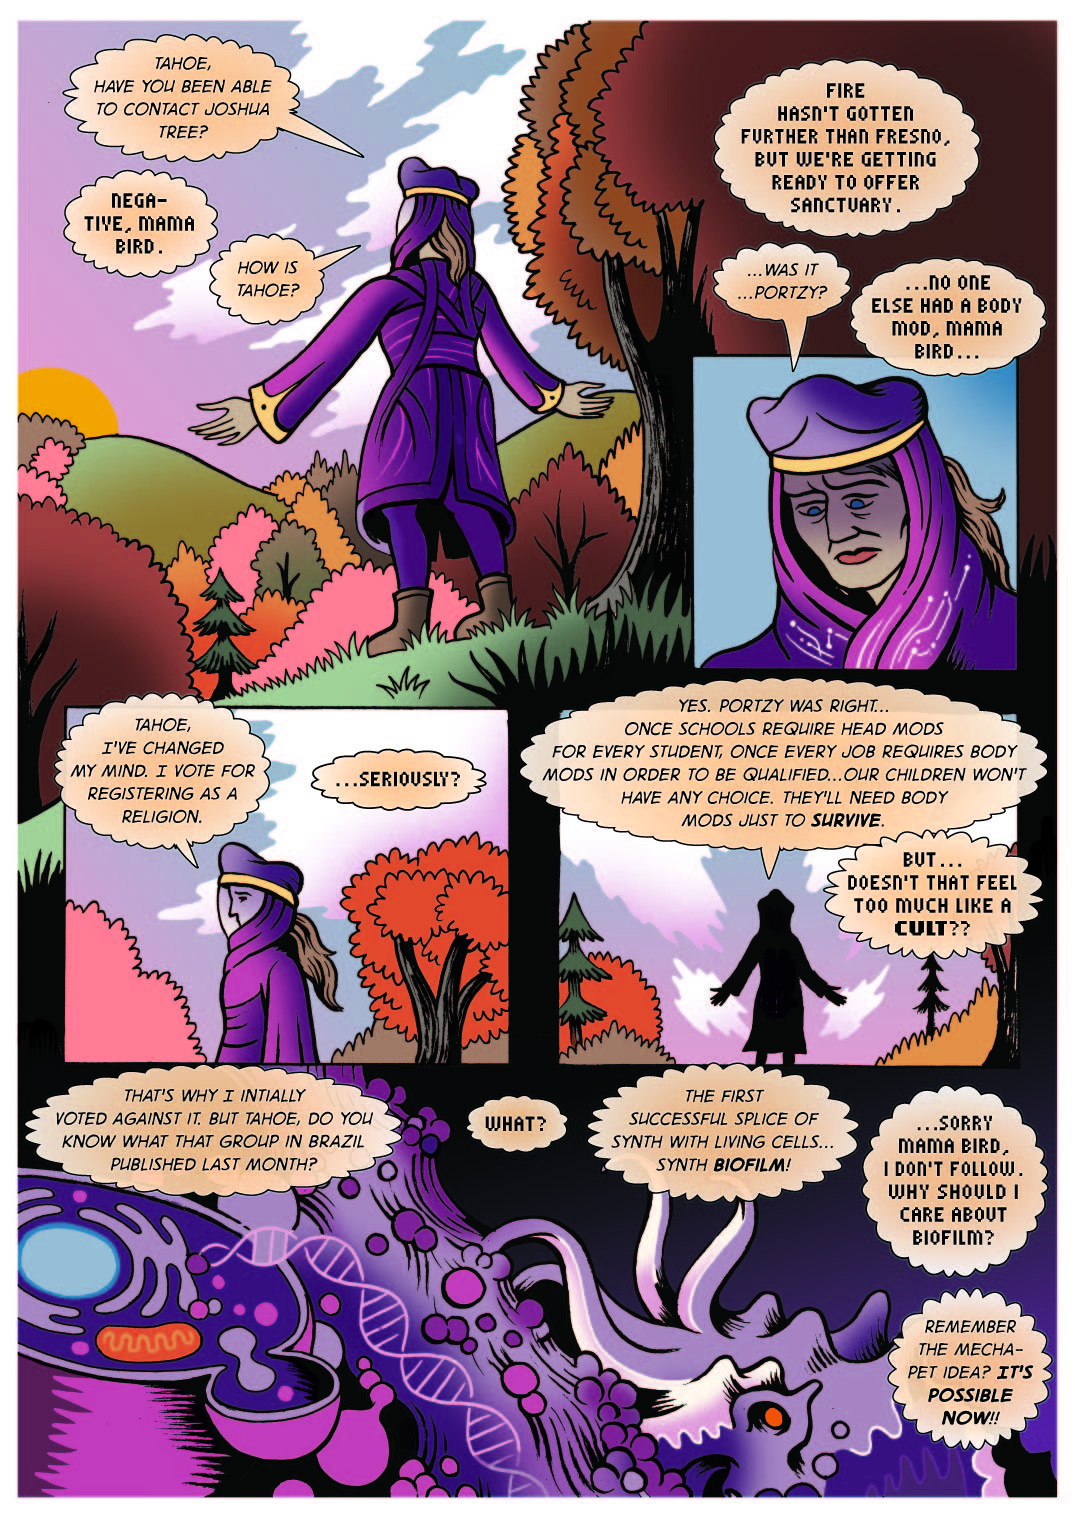
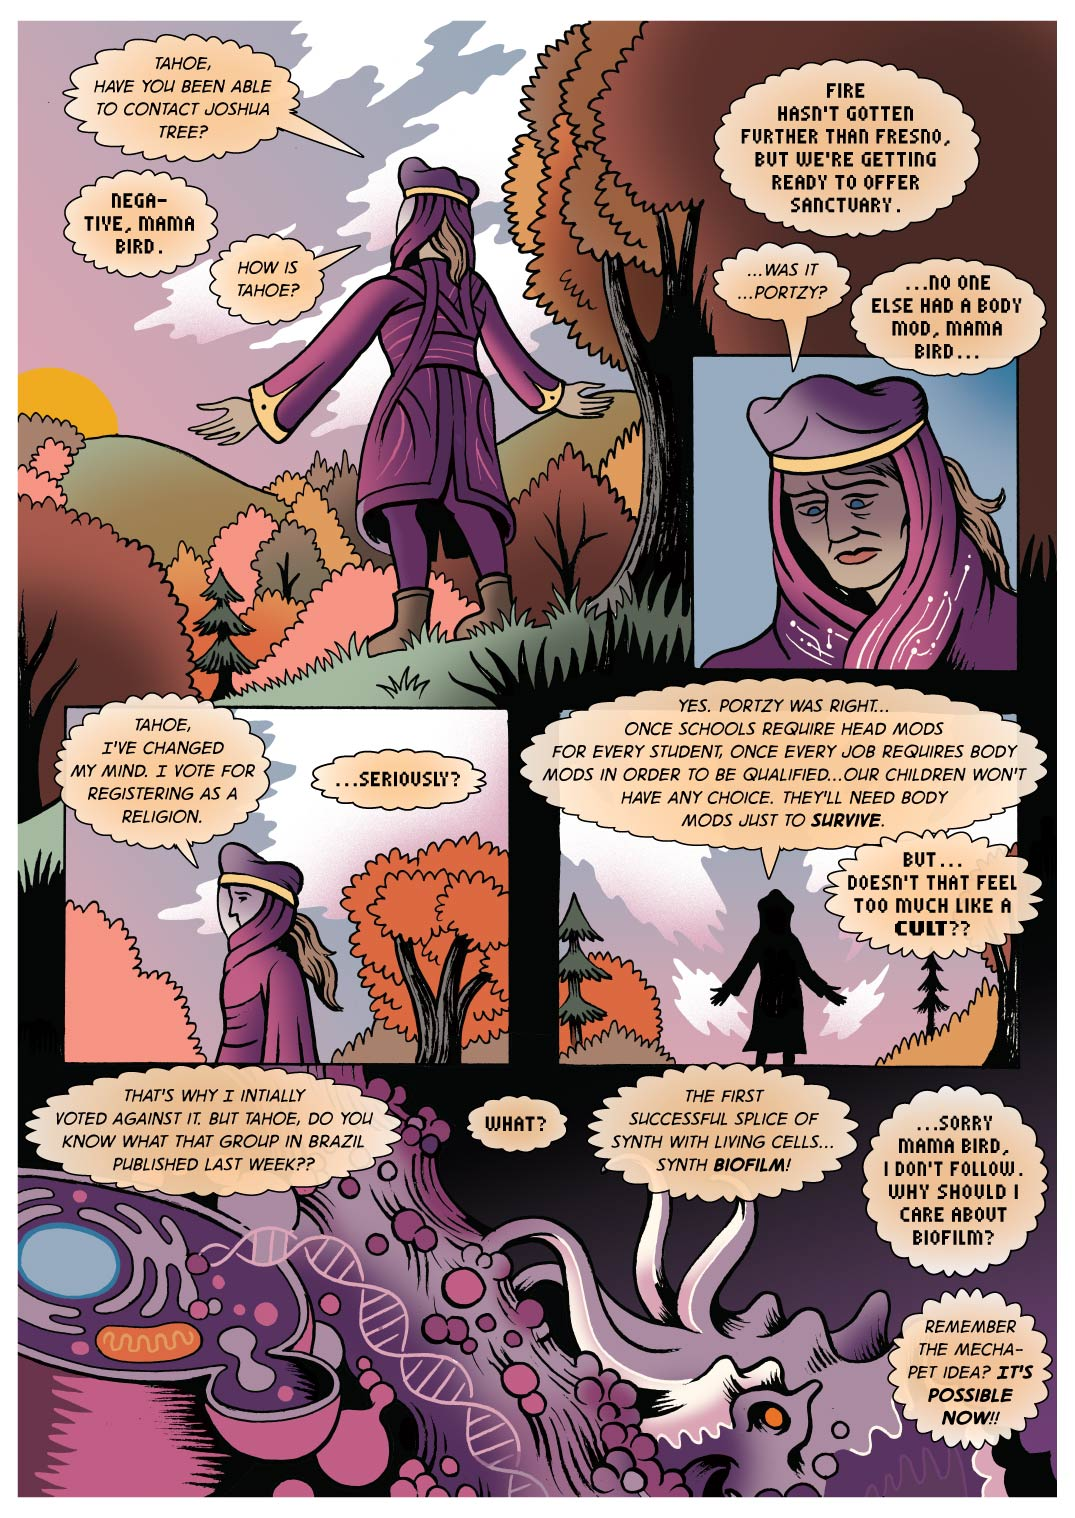
dialogue tweak, page 12

diff --git a/_open-lab-notebook/09-the-first-VIRS-ch01-teaser-14.md b/_open-lab-notebook/09-the-first-VIRS-ch01-teaser-14.md
@@ -46,7 +46,7 @@ Iúna: **"*Yes. Portzy was right - once schools require head mods for every stud
 
 Tahoe: **"*But...doesn't that feel too much like a* cult??"**
 
-Iúna: **"*That's why I intially voted against it. But Tahoe, do you know what that group in Brazil published last month?*"**
+Iúna: **"*That's why I intially voted against it. But Tahoe, do you know what that group in Brazil published last week??*"**
 
 Tahoe: **"*What?*"**
 
